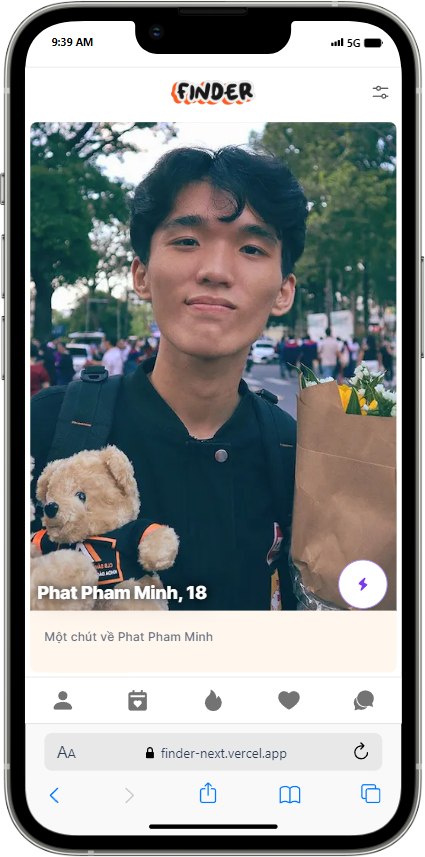
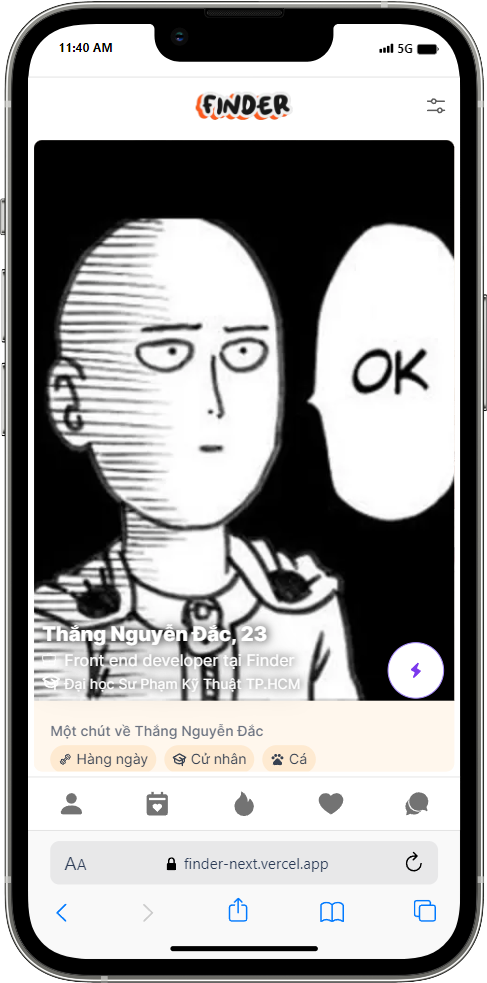
fix: fix some bugs

diff --git a/app/[lng]/app/(setting)/settings/components/AdvanceFilterSetting/FilterItem.tsx b/app/[lng]/app/(setting)/settings/components/AdvanceFilterSetting/FilterItem.tsx
@@ -14,7 +14,7 @@ interface FilterItemProps {
   label: string;
   type: TagType;
   value?: string;
-  onChange?: (tag: Tag) => void;
+  onChange?: (type: TagType, tag: Tag | null) => void;
 }
 
 const FilterItem = ({ label, type, value, onChange }: FilterItemProps) => {
@@ -24,14 +24,14 @@ const FilterItem = ({ label, type, value, onChange }: FilterItemProps) => {
 
   const selectedTag = useMemo(
     () => tags.find((tag) => tag._id === value),
-    [value],
+    [value, tags],
   );
 
-  const onChoose = (tag: Tag) => {
-    if (tag._id === selectedTag?._id) return;
+  const onChoose = (type: TagType, tag: Tag | null) => {
+    if (tag?._id === selectedTag?._id) return;
 
     setIsOpen(false);
-    onChange?.(tag);
+    onChange?.(type, tag);
   };
 
   return (
@@ -65,22 +65,37 @@ const FilterItem = ({ label, type, value, onChange }: FilterItemProps) => {
               <Skeleton key={i} className="h-10 w-full rounded-full" />
             ))}
 
-          {!isLoading &&
-            tags.map((tag) => (
+          {!isLoading && (
+            <>
               <button
-                key={tag._id}
                 className={cn(
                   "w-full px-2 py-1.5 text-left text-sm hover:bg-background-100",
                   {
-                    "text-primary-500": selectedTag?._id === tag._id,
+                    "text-primary-500": !selectedTag,
                   },
                 )}
                 type="button"
-                onClick={() => onChoose(tag)}
+                onClick={() => onChoose(type, null)}
               >
-                {tag.name}
+                Không áp dụng
               </button>
-            ))}
+              {tags.map((tag) => (
+                <button
+                  key={tag._id}
+                  className={cn(
+                    "w-full px-2 py-1.5 text-left text-sm hover:bg-background-100",
+                    {
+                      "text-primary-500": selectedTag?._id === tag._id,
+                    },
+                  )}
+                  type="button"
+                  onClick={() => onChoose(tag.type, tag)}
+                >
+                  {tag.name}
+                </button>
+              ))}
+            </>
+          )}
         </ScrollArea>
       </PopoverContent>
     </Popover>

diff --git a/components/ModeToggle.tsx b/components/ModeToggle.tsx
@@ -1,47 +1,35 @@
 "use client";
 
-import * as React from "react";
 import { MoonIcon, SunIcon } from "@radix-ui/react-icons";
 import { useTheme } from "next-themes";
+import * as React from "react";
 
-import {
-  DropdownMenu,
-  DropdownMenuContent,
-  DropdownMenuItem,
-  DropdownMenuTrigger,
-} from "@/components/DropdownMenu";
 import ActionIcon from "@/components/ActionIcon";
 import { cn } from "@/lib/utils";
 
 interface ModeToggleProps
   extends React.ComponentPropsWithoutRef<typeof ActionIcon> {}
 const ModeToggle = ({ className, ...others }: ModeToggleProps) => {
-  const { setTheme } = useTheme();
+  const { theme, setTheme } = useTheme();
+
+  const onToggle = () => {
+    if (theme === "light") {
+      setTheme("dark");
+    } else {
+      setTheme("light");
+    }
+  };
 
   return (
-    <DropdownMenu>
-      <DropdownMenuTrigger asChild>
-        <ActionIcon className={cn("h-11 w-11", className)} {...others}>
-          <SunIcon className="h-[1.2rem] w-[1.2rem] rotate-0 scale-100 transition-all dark:-rotate-90 dark:scale-0" />
-          <MoonIcon className="absolute h-[1.2rem] w-[1.2rem] rotate-90 scale-0 transition-all dark:rotate-0 dark:scale-100" />
-          <span className="sr-only">Toggle theme</span>
-        </ActionIcon>
-      </DropdownMenuTrigger>
-      <DropdownMenuContent align="end">
-        <DropdownMenuItem
-          className="space-x-2"
-          onClick={() => setTheme("light")}
-        >
-          <SunIcon /> <span>Sáng</span>
-        </DropdownMenuItem>
-        <DropdownMenuItem
-          className="space-x-2"
-          onClick={() => setTheme("dark")}
-        >
-          <MoonIcon /> <span>Tối</span>
-        </DropdownMenuItem>
-      </DropdownMenuContent>
-    </DropdownMenu>
+    <ActionIcon
+      className={cn("h-11 w-11", className)}
+      {...others}
+      onClick={onToggle}
+    >
+      <SunIcon className="h-[1.2rem] w-[1.2rem] rotate-0 scale-100 transition-all dark:-rotate-90 dark:scale-0" />
+      <MoonIcon className="absolute h-[1.2rem] w-[1.2rem] rotate-90 scale-0 transition-all dark:rotate-0 dark:scale-100" />
+      <span className="sr-only">Toggle theme</span>
+    </ActionIcon>
   );
 };
 

diff --git a/app/[lng]/app/(setting)/settings/components/AdvanceFilterSetting/index.tsx b/app/[lng]/app/(setting)/settings/components/AdvanceFilterSetting/index.tsx
@@ -21,6 +21,7 @@ const AdvanceFilterSetting = () => {
   });
 
   const updateSetting = useUpdateSetting();
+  const disabledToggleButton = !advancedFilter?.tags.length;
 
   const filters = useMemo(
     () =>
@@ -35,6 +36,7 @@ const AdvanceFilterSetting = () => {
   );
 
   const onToggleFilter = () => {
+    if (disabledToggleButton) return;
     updateSetting.mutate({
       advancedFilter: {
         enable: !advancedFilter?.enable,
@@ -43,17 +45,16 @@ const AdvanceFilterSetting = () => {
     });
   };
 
-  const handleChangeFilter = (tag: Tag) => {
+  const handleChangeFilter = (type: TagType, tag: Tag | null) => {
+    let newTags = advancedFilter?.tags.filter((t) => t.tagType !== type) ?? [];
+
+    if (tag) {
+      newTags.push({ tagId: tag._id, tagType: type });
+    }
     updateSetting.mutate({
       advancedFilter: {
-        enable: true,
-        tags: [
-          ...(advancedFilter?.tags.filter((t) => t.tagType !== tag.type) ?? []),
-          {
-            tagId: tag._id,
-            tagType: tag.type,
-          },
-        ],
+        enable: newTags.length > 0,
+        tags: newTags,
       },
     });
   };
@@ -73,14 +74,21 @@ const AdvanceFilterSetting = () => {
           className={cn(
             buttonBaseVariants({
               variant: "social",
-              className:
+              className: cn(
                 "mb-10 w-full !translate-y-0 justify-between rounded-full bg-background",
+                {
+                  "cursor-default opacity-50": disabledToggleButton,
+                },
+              ),
             }),
           )}
           onClick={onToggleFilter}
         >
           <span>Áp dụng bộ lọc</span>
-          <Switch checked={advancedFilter?.enable} />
+          <Switch
+            className="cursor-[inherit]"
+            checked={advancedFilter?.enable}
+          />
         </div>
         <Label>Lọc theo:</Label>
         <div className="mt-3 flex flex-col gap-3">

diff --git a/app/[lng]/app/(main)/components/FilterSetting.tsx b/app/[lng]/app/(main)/components/FilterSetting.tsx
@@ -3,8 +3,8 @@
 import ActionIcon from "@/components/ActionIcon";
 import FilterForm from "@/components/FilterForm";
 import { Popover, PopoverContent, PopoverTrigger } from "@/components/Popover";
-import { ROUTE } from "@/constant/route";
-import { usePathname, useSearchParams } from "next/navigation";
+import { useIsMobile } from "@/hooks/use-is-mobile";
+import { useSearchParams } from "next/navigation";
 import { useState } from "react";
 import { BsXLg } from "react-icons/bs";
 import { PiSlidersHorizontal } from "react-icons/pi";
@@ -13,7 +13,7 @@ interface FilterSettingProps {
   onReload?: () => void;
 }
 const FilterSetting = ({ onReload }: FilterSettingProps) => {
-  const pathname = usePathname();
+  const isMobile = useIsMobile();
   const searchParams = useSearchParams();
   const [isOpen, setIsOpen] = useState(false);
 
@@ -22,12 +22,12 @@ const FilterSetting = ({ onReload }: FilterSettingProps) => {
     onReload?.();
   };
 
-  if (!pathname?.endsWith(ROUTE.HOME) || searchParams?.toString()) return null;
+  if (isMobile && searchParams?.toString() === "tab=message") return null;
 
   return (
     <Popover open={isOpen} onOpenChange={setIsOpen}>
       <PopoverTrigger
-        className="absolute right-3 flex items-center gap-2 text-[13px] font-semibold opacity-80 transition-opacity hover:opacity-100 md:left-16"
+        className="absolute right-3 flex w-fit items-center gap-2 text-[13px] font-semibold opacity-80 transition-opacity hover:opacity-100 md:left-16"
         asChild
       >
         <button onClick={() => setIsOpen(true)}>

diff --git a/components/UserCard/MobileUserCard.tsx b/components/UserCard/MobileUserCard.tsx
@@ -77,13 +77,13 @@ export const MobileUserCard = ({
                 fill
                 alt={""}
               />
-              <div className="absolute bottom-1.5 left-2 text-white drop-shadow">
+              <div className="absolute bottom-1.5 left-2 text-white">
                 <p className="text-shadow flex items-center gap-2 text-xl font-extrabold">
                   {name}, {age}
                   {isVerifiedFace && <VerifiedIcon width={20} />}
                 </p>
                 {jobs && jobs.length > 0 && company && (
-                  <p className="flex items-center gap-2">
+                  <p className="text-shadow flex items-center gap-2">
                     <RxBackpack size={14} />
                     <span>
                       {jobs?.[0]} tại {company}
@@ -91,7 +91,7 @@ export const MobileUserCard = ({
                   </p>
                 )}
                 {school && (
-                  <p className="flex items-center gap-1 text-sm">
+                  <p className="text-shadow flex items-center gap-1 text-sm">
                     <PiGraduationCapBold
                       className="mb-1 inline-block"
                       size={18}

diff --git a/app/[lng]/(public)/components/HowItWork/Bubble.tsx b/app/[lng]/(public)/components/HowItWork/Bubble.tsx
@@ -17,7 +17,7 @@ const Bubble = ({
   return (
     <div
       className={cn(
-        "w-2/3 min-w-[220px] rounded-b-full rounded-t-full bg-transparent from-primary-10 to-primary-50 px-10 py-16 text-center sm:w-1/2 md:w-1/3 lg:bg-gradient-to-b",
+        "w-2/3 min-w-[220px] rounded-b-full rounded-t-full bg-transparent from-primary-50 to-primary-100 px-10 py-16 text-center sm:w-1/2 md:w-1/3 lg:bg-gradient-to-b",
         className,
       )}
       {...others}
@@ -29,8 +29,8 @@ const Bubble = ({
         width={110}
         height={110}
       />
-      <p className="font-semibold">{title}</p>
-      <p className="text-sm text-secondary-foreground">{description}</p>
+      <p className="font-semibold text-gray-800">{title}</p>
+      <p className="text-sm text-gray-500">{description}</p>
     </div>
   );
 };

diff --git a/app/[lng]/app/(setting)/settings/components/LocationSetting.tsx b/app/[lng]/app/(setting)/settings/components/LocationSetting.tsx
@@ -40,7 +40,7 @@ const LocationSetting = () => {
   return (
     <>
       <div className="w-full space-y-1.5">
-        <Label className="px-6 text-base text-black">Vị trí hiện tại</Label>
+        <Label className="px-6 text-base">Vị trí hiện tại</Label>
 
         <div className="flex items-center justify-between rounded-full border px-6 py-1">
           <span>{address?.province}</span>
